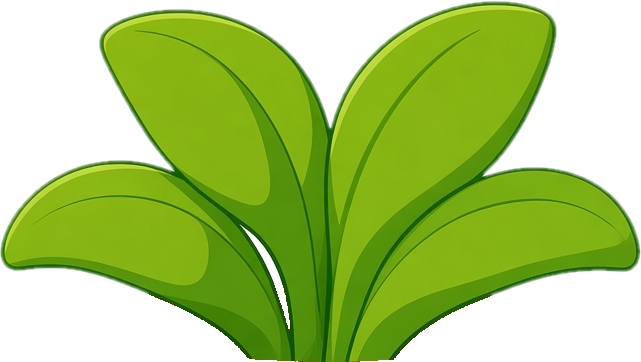
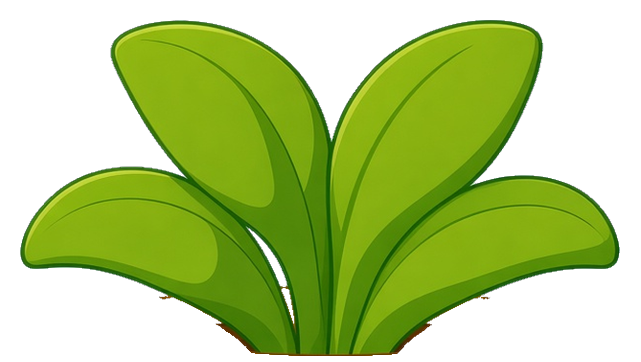
Replace Pibo with the approved round pot.
Cut the style-matched concept into the playable sprite. Pot color still repaints the body, and hair and hats stay separate layers. New archive shots show him beside the island creatures and in the art room.

Changed region(s): [[0.0, 0.0, 1.0, 1.0], [0.3432, 0.1823, 0.4056, 0.3039], [0.624, 0.8204, 0.6552, 0.8508]]

diff --git a/src/entities/piboLook.js b/src/entities/piboLook.js
@@ -228,7 +228,8 @@ function splitLayers(source) {
         into = ld;
       } else {
         into = pd;
-        kind = Math.max(r, g, b) < 80 ? 2 : 1;
+        // Thick brown contour stays ink. Brighter cel shading recolors with the pot.
+        kind = Math.max(r, g, b) < 120 ? 2 : 1;
       }
       into[p] = r;
       into[p + 1] = g;
@@ -426,13 +427,13 @@ function drawGlasses(ctx, w, h, color) {
   ctx.fillStyle = color;
   ctx.lineWidth = Math.max(8, w * 0.026);
   ctx.lineJoin = "round";
-  const rw = w * 0.15;
-  const rh = h * 0.078;
-  const y = h * 0.632;
-  roundRect(ctx, w * 0.305 - rw / 2, y, rw, rh, rh * 0.45);
+  const rw = w * 0.17;
+  const rh = h * 0.1;
+  const y = h * 0.602;
+  roundRect(ctx, w * 0.315 - rw / 2, y, rw, rh, rh * 0.45);
   ctx.fill();
   ctx.stroke();
-  roundRect(ctx, w * 0.64 - rw / 2, y, rw, rh, rh * 0.45);
+  roundRect(ctx, w * 0.659 - rw / 2, y, rw, rh, rh * 0.45);
   ctx.fill();
   ctx.stroke();
   ctx.beginPath();
@@ -455,6 +456,8 @@ function isEyePixel(r, g, b) {
   const min = Math.min(r, g, b);
   if (max < 95) return true;
   if (min > 175 && b > 150) return true;
+  // Cream shine. Pot yellow has almost no blue, so this stays inside the eyes.
+  if (r > 200 && g > 140 && b > 90 && b < 230) return true;
   return r < 130 && g < 90 && b < 70 && max < 150;
 }
 
@@ -462,8 +465,8 @@ function inEye(x, y, w, h) {
   const fx = x / w;
   const fy = y / h;
   const eyes = [
-    [0.308, 0.678, 0.082, 0.072],
-    [0.64, 0.682, 0.082, 0.072],
+    [0.315, 0.65, 0.1, 0.086],
+    [0.659, 0.652, 0.098, 0.085],
   ];
   for (const [cx, cy, rx, ry] of eyes) {
     const dx = (fx - cx) / rx;

diff --git a/src/data/assets.js b/src/data/assets.js
@@ -43,7 +43,7 @@ export const ASSETS = {
     radius: 0.7,
     waterReach: 0.5,
     anchor: { x: 0.5, y: 0 },
-    ...px(646, 846),
+    ...px(645, 838),
     // Breaststroke frames in assets/pibo/pibo-swim-*.png are unused.
     // Crossing the sea plays an upright flight on the idle pot instead.
     fps: { idle: 2, walk: 7 },

diff --git a/tools/cut-style-pibo.py b/tools/cut-style-pibo.py
@@ -1,0 +1,124 @@
+"""Cut the approved style-matched Pibo into a transparent game sprite.
+
+Reads assets/pibo/sources/pibo-style-matched.jpg. Drops the flat blue
+background and the painted ground shadow (the game draws its own). Feet sit
+on the bottom edge so the existing anchor still works. No walk or flight
+frames: the game bobs this one picture.
+"""
+from collections import deque
+from pathlib import Path
+
+import numpy as np
+from PIL import Image
+
+ROOT = Path(__file__).resolve().parents[1]
+SRC = ROOT / "assets" / "pibo" / "sources" / "pibo-style-matched.jpg"
+OUT = ROOT / "assets" / "pibo" / "pibo.png"
+OUT_W, OUT_H = 645, 838
+
+
+def flood_background(rgb):
+    height, width = rgb.shape[:2]
+    bg = rgb[0, 0].astype(np.int16)
+    seen = np.zeros((height, width), np.uint8)
+    queue = deque()
+    for x in range(width):
+        queue.append((x, 0))
+        queue.append((x, height - 1))
+    for y in range(height):
+        queue.append((0, y))
+        queue.append((width - 1, y))
+    while queue:
+        x, y = queue.popleft()
+        if x < 0 or y < 0 or x >= width or y >= height or seen[y, x]:
+            continue
+        if np.abs(rgb[y, x].astype(np.int16) - bg).sum() > 42:
+            continue
+        seen[y, x] = 1
+        queue.extend(((x + 1, y), (x - 1, y), (x, y + 1), (x, y - 1)))
+    return seen, bg
+
+
+def main():
+    rgb = np.array(Image.open(SRC).convert("RGB"))
+    height, width = rgb.shape[:2]
+    seen, bg = flood_background(rgb)
+    red = rgb[:, :, 0].astype(np.int16)
+    green = rgb[:, :, 1].astype(np.int16)
+    blue = rgb[:, :, 2].astype(np.int16)
+    peak = np.maximum(np.maximum(red, green), blue)
+    chroma = peak - np.minimum(np.minimum(red, green), blue)
+    yellow = (red > 150) & (red > blue + 40) & (green > 70) & (blue < 130)
+    foreground = seen == 0
+    feet_y = int(np.where((yellow & foreground).any(1))[0].max())
+    shadow = (chroma < 32) & (peak < 205) & (peak > 20) & (np.arange(height)[:, None] > feet_y - 10)
+    pale_blue = (blue > 190) & (blue > red + 10) & (green > 170)
+    character = foreground & ~shadow & ~pale_blue
+
+    ys, xs = np.where(character)
+    y0, y1 = int(ys.min()), int(ys.max())
+    x0, x1 = int(xs.min()), int(xs.max())
+    edge = character.copy()
+    background = ~character
+    dilated = background.copy()
+    dilated[1:] |= background[:-1]
+    dilated[:-1] |= background[1:]
+    dilated[:, 1:] |= background[:, :-1]
+    dilated[:, :-1] |= background[:, 1:]
+    edge = character & dilated
+
+    rgba = np.zeros((height, width, 4), np.uint8)
+    rgba[:, :, :3] = rgb
+    rgba[:, :, 3] = np.where(character, 255, 0).astype(np.uint8)
+    bgf = bg.astype(np.float32)
+    ey, ex = np.where(edge)
+    for y, x in zip(ey, ex):
+        pixel = rgb[y, x].astype(np.float32)
+        dist = np.abs(pixel - bgf).sum()
+        alpha = float(np.clip((dist - 30) / 160, 0.2, 1))
+        color = np.clip((pixel - bgf * (1 - alpha)) / alpha, 0, 255)
+        rgba[y, x, :3] = color.astype(np.uint8)
+        rgba[y, x, 3] = int(alpha * 255)
+
+    crop = rgba[y0:y1 + 1, x0:x1 + 1]
+    ch, cw = crop.shape[:2]
+    scale = min((OUT_W - 12) / cw, (OUT_H - 8) / ch)
+    nw, nh = int(round(cw * scale)), int(round(ch * scale))
+    sprite = Image.fromarray(crop, "RGBA").resize((nw, nh), Image.Resampling.LANCZOS)
+    canvas = Image.new("RGBA", (OUT_W, OUT_H), (0, 0, 0, 0))
+    ox = (OUT_W - nw) // 2
+    oy = OUT_H - nh - 2
+    canvas.paste(sprite, (ox, oy), sprite)
+    out = np.array(canvas)
+    out[:, :, 3] = np.where(out[:, :, 3] < 16, 0, out[:, :, 3])
+    red = out[:, :, 0].astype(np.int16)
+    green = out[:, :, 1].astype(np.int16)
+    blue = out[:, :, 2].astype(np.int16)
+    alpha = out[:, :, 3]
+    # Blue halo left where the flat background mixed into the outline.
+    halo = (alpha > 0) & (blue > red + 12) & (blue > green + 8) & (blue > 110)
+    out[halo, 3] = 0
+    # The concept's ground shadow is not part of the sprite. The game draws one.
+    # Neutral dark pixels under the belly are that shadow, including the gap
+    # between the two feet. Brown foot pixels stay (they are chromatic).
+    red = out[:, :, 0].astype(np.int16)
+    green = out[:, :, 1].astype(np.int16)
+    blue = out[:, :, 2].astype(np.int16)
+    alpha = out[:, :, 3]
+    peak = np.maximum(np.maximum(red, green), blue)
+    chroma = peak - np.minimum(np.minimum(red, green), blue)
+    rows = np.arange(out.shape[0])[:, None]
+    opaque = alpha > 30
+    yellow = opaque & (red > 150) & (green > 80) & (blue < 100) & (red > blue + 30)
+    solid = np.where(yellow.sum(1) >= 30)[0]
+    if len(solid):
+        out[int(solid.max()) + 6:, :, 3] = 0
+        alpha = out[:, :, 3]
+    shadow = (alpha > 0) & (chroma < 26) & (peak < 120) & (rows > 740)
+    out[shadow, 3] = 0
+    Image.fromarray(out, "RGBA").save(OUT)
+    print(f"wrote {OUT} {OUT_W}x{OUT_H} from crop {cw}x{ch} scale {scale:.3f} at {ox},{oy}")
+
+
+if __name__ == "__main__":
+    main()

diff --git a/ASSETS.md b/ASSETS.md
@@ -50,7 +50,7 @@ Replace one PNG and refresh. Positions stay in `src/data/layers.js`. Rebuild fro
 The library hangout background, with the raccoon removed, is `assets/painted/layers/library-hangout.png`.
 
 - **Art room** (`assets/painted/art-room.jpg`) — the room behind the cottage door. Pibo is drawn on top of it, not painted in.
-- **Pibo** (`assets/pibo/pibo.png`) — the yellow pot, transparent around the silhouette, feet at the bottom edge. There should be no white or cream fringe. The game draws a soft black shadow under him and bobs him when he walks. Over the sea he stays upright and lifts; the old `pibo-swim-*.png` frames are unused. Replace `pibo.png` with your own pot. If the new picture is a different size, change `pixelWidth`, `pixelHeight`, `width`, and `height` on `pibo` in `src/data/assets.js`.
+- **Pibo** (`assets/pibo/pibo.png`) — the round yellow pot, 645 × 838, feet at the bottom edge. Leaf hair, eyes, and the pot are separate layers inside this one file: a new pot color repaints the body, and a hat replaces the leaves. No mouth, blush, or arms. The game draws the soft shadow and bobs him when he walks or flies. The old `pibo-swim-*.png` frames are unused. Rebuild from `assets/pibo/sources/pibo-style-matched.jpg` with `python3 tools/cut-style-pibo.py`.
 - **Hair** (`assets/pibo/hair/`) — succulent, fern, sunflower, clover, and palm. Each file is a transparent PNG of any size, with no pot, rim, or soil in it. The original big tuft is not one of these files. It is the green layer already in `pibo.png`. `tuft-icon.png` is only the picker picture for that tuft.
 - **Hats** (`assets/pibo/hats/`) — beanie, strawhat, wizard, crown, cap, and pirate. Same rules: transparent PNG, any size, no pot pixels. A hat hides whichever hair is selected.
 - Placement for each id is `anchorPx`, `offset`, and `scale` on that entry in `HAIRS` or `HATS` in `src/entities/piboLook.js`. `anchorPx` is the pixel in the file (x from the left, y from the top) that sits on the middle of the pot rim's top. `scale` 1 means one image pixel per sprite pixel. `offset` is sprite pixels, x to the right and y downward. To use a new painting, overwrite the PNG, update `anchorPx` if the crop changed, and refresh.
